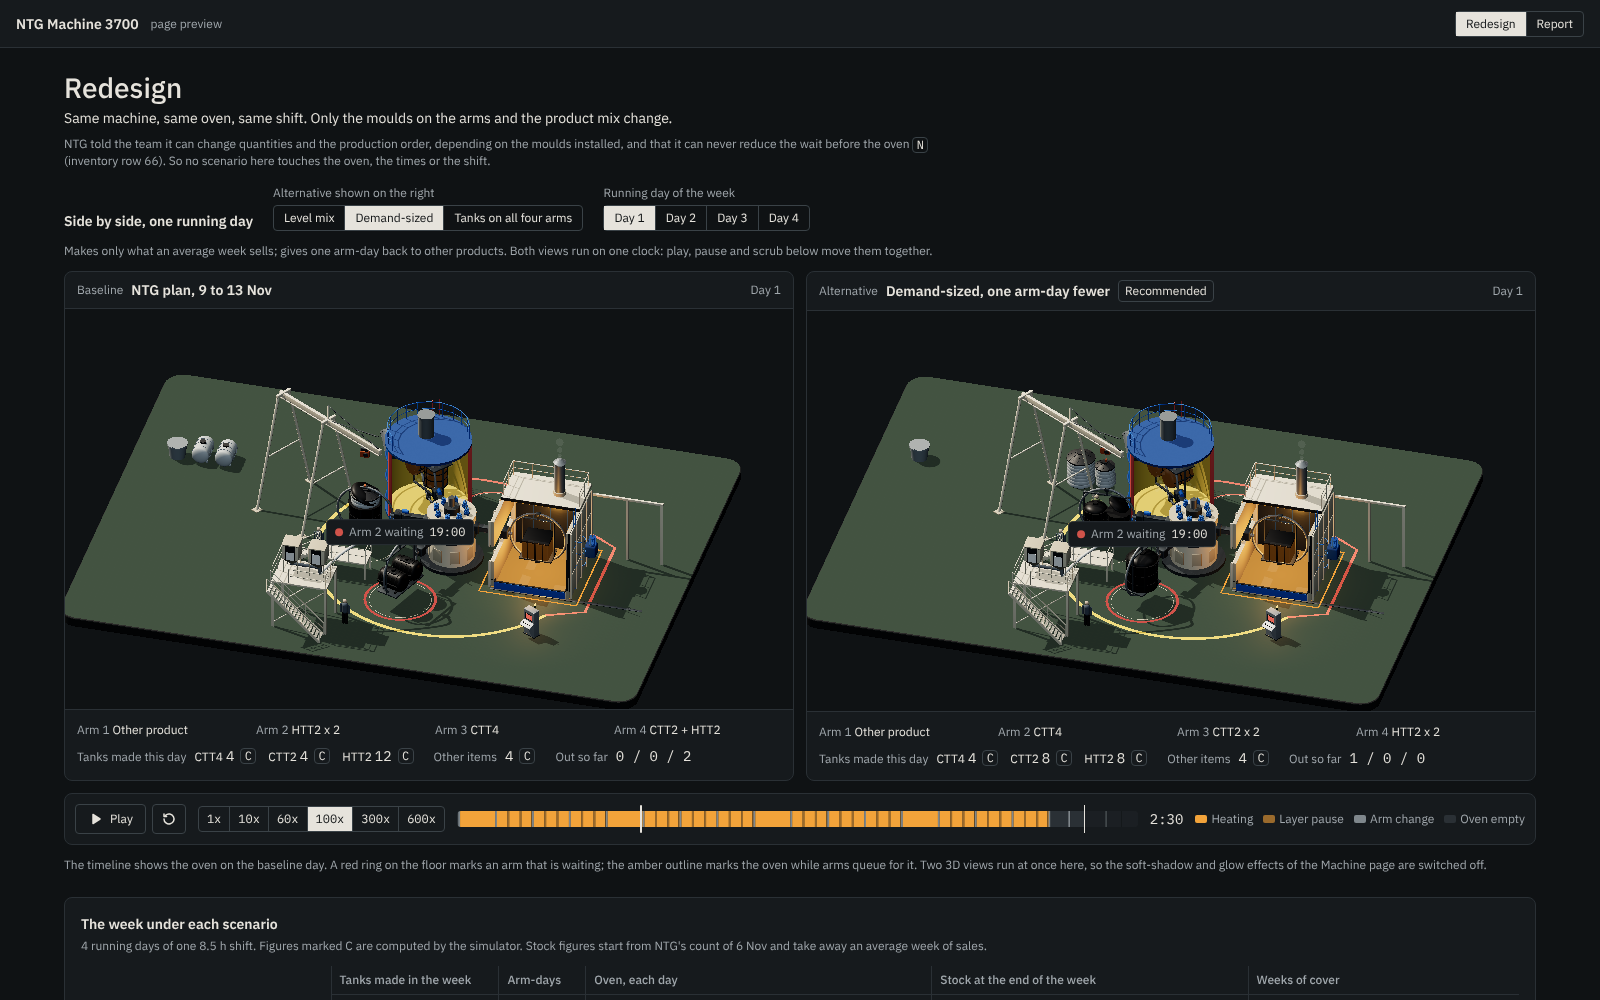
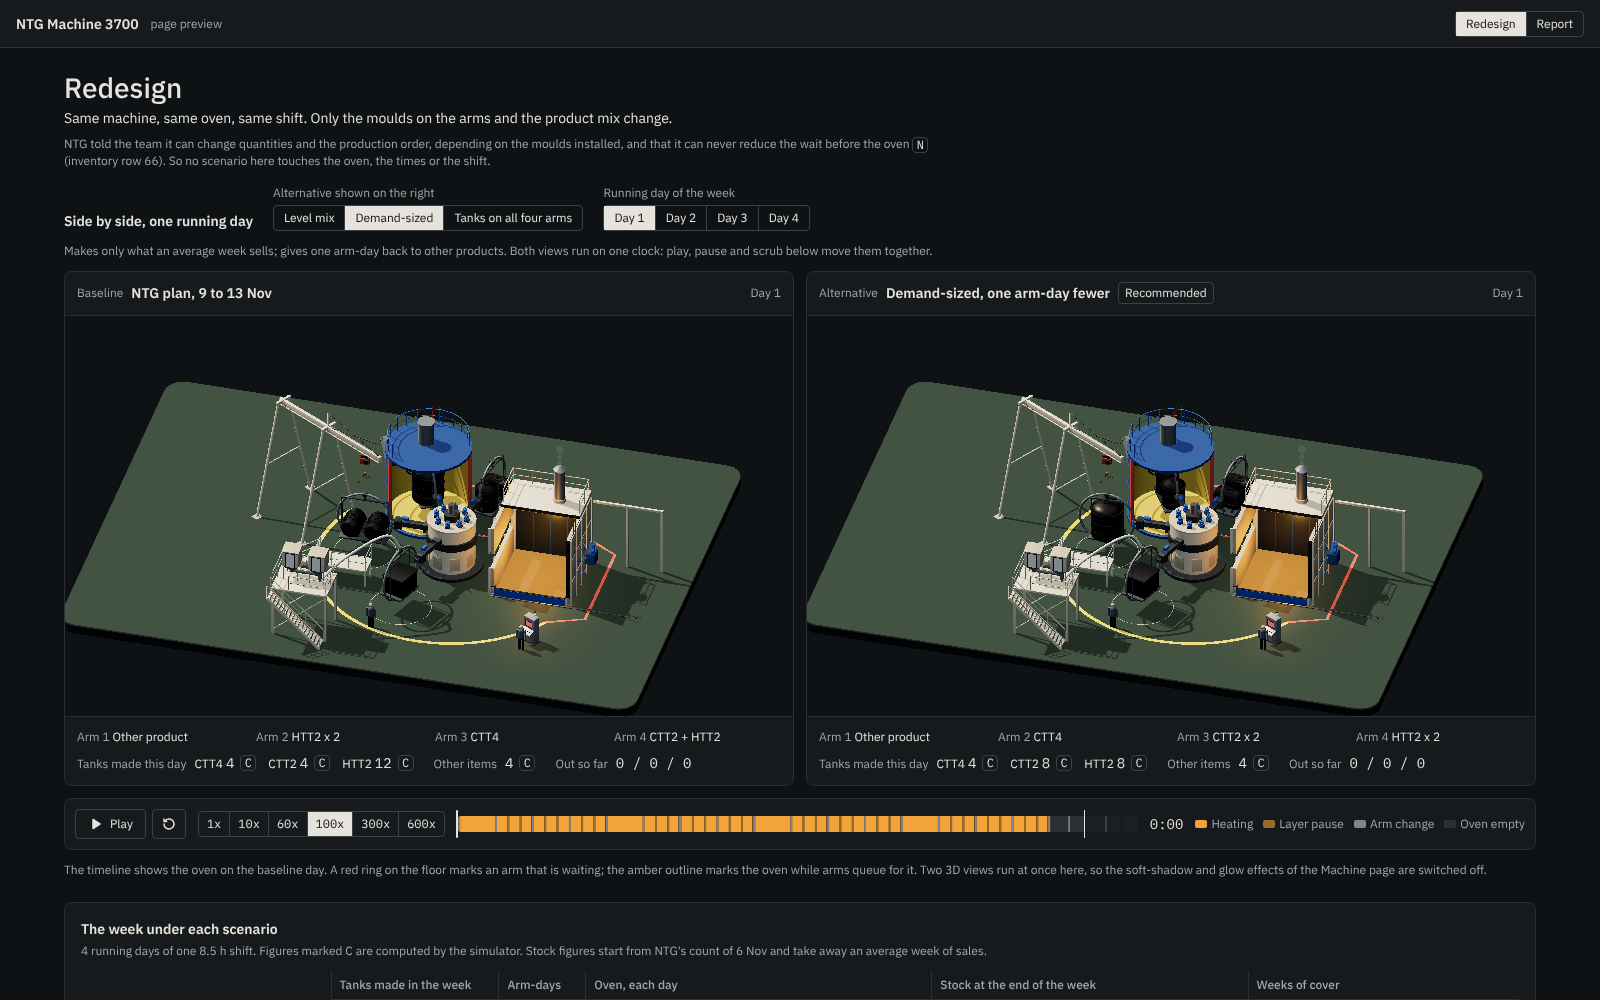
Raw-material hall mounted in the main scene with its powder panel and camera glide
Claude-Session: https://claude.ai/code/session_01TWvgP4uf49W2EAn66SNcxY

diff --git a/src/ui/RawPanel.tsx b/src/ui/RawPanel.tsx
@@ -1,0 +1,77 @@
+/** Left panel for the raw-material scene: silo and hopper levels, grinding and the forklift bin, from the simulator. */
+import { useTwin } from '../app/store';
+import { palette } from '../design/tokens';
+import { LAYERS, P, assumed } from '../data/params';
+import type { PlantState, SimResult } from '../sim/types';
+import { Button, Num, Panel, fmt, sourceTitle } from './kit';
+
+export function RawPanel({ state, result }: { state: PlantState; result: SimResult }) {
+  const setScene = useTwin((s) => s.setScene);
+  const cap = result.config.raw.siloCapacityKg;
+  const reorder = assumed.siloReorderFill.value;
+  const low = state.siloKg.some((kg) => kg / cap < reorder);
+  return (
+    <Panel aria-label="Raw material" className="pointer-events-auto w-full p-3 md:w-72">
+      <header className="mb-2 flex items-baseline justify-between">
+        <h2 className="text-14 font-semibold">Powder</h2>
+        <span className="text-12 text-textMuted">one silo per layer</span>
+      </header>
+      <ul className="grid gap-2.5">
+        {LAYERS.map((name, i) => {
+          const fill = state.siloKg[i]! / cap;
+          const isLow = fill < reorder;
+          return (
+            <li key={name} className="grid gap-1">
+              <div className="flex items-baseline justify-between gap-2">
+                <span className="text-14 font-medium">Silo {i + 1}</span>
+                <span className="truncate text-12 text-textMuted">{name}</span>
+              </div>
+              <div className="flex items-center justify-between gap-2 text-12">
+                <Num size="12" value={fmt(state.siloKg[i]!)} unit="kg" tag="C" title="Simulated stock: start level, less bins taken, plus powder ground" />
+                <span className="text-textMuted">
+                  of <Num size="12" value={fmt(cap)} unit="kg" datum={P.siloCapacityT} />
+                </span>
+              </div>
+              <div className="relative h-1.5 rounded-full bg-hairline" role="progressbar" aria-label={`Silo ${i + 1} level`} aria-valuemin={0} aria-valuemax={100} aria-valuenow={Math.round(fill * 100)}>
+                {/* The style bible asks for an amber gauge below the reorder level. */}
+                <div className="h-full rounded-full" style={{ width: `${Math.min(1, fill) * 100}%`, background: isLow ? palette.heatAmber : '#C3C9CD' }} />
+                <span className="absolute -top-0.5 h-2.5 w-px bg-textMuted" style={{ left: `${reorder * 100}%` }} title={sourceTitle(assumed.siloReorderFill)} aria-hidden="true" />
+              </div>
+              <div className="flex items-center justify-between text-12 text-textMuted">
+                <span>Hopper at the machine</span>
+                <Num size="12" value={fmt(state.hopperKg[i]!)} unit="kg" tag="C" title="Simulated hopper level" />
+              </div>
+            </li>
+          );
+        })}
+      </ul>
+      <dl className="mt-3 grid gap-1 border-t border-hairline pt-2 text-12">
+        <div className="flex items-center justify-between gap-2">
+          <dt className="text-textMuted">Grinding</dt>
+          <dd>{state.grind.active ? `${LAYERS[state.grind.layer]} batch, ${Math.round(state.grind.progress * 100)} %` : 'Idle'}</dd>
+        </div>
+        <div className="flex items-center justify-between gap-2">
+          <dt className="text-textMuted">Forklift bin</dt>
+          <dd>{state.bin.active ? `${fmt(state.bin.kg)} kg of ${LAYERS[state.bin.layer]!.toLowerCase()}` : 'Parked'}</dd>
+        </div>
+        <div className="flex items-center justify-between gap-2">
+          <dt className="text-textMuted">Dosed into moulds so far</dt>
+          <dd>
+            <Num size="12" value={fmt(state.loading.kgDosedTotal)} unit="kg" tag="C" title="Sum of the layer weights of every tank loaded so far" />
+          </dd>
+        </div>
+      </dl>
+      <p className="mt-2 border-t border-hairline pt-2 text-12 text-textMuted">
+        Raw material is not a bottleneck in NTG's data. The three tanks use about{' '}
+        <Num size="12" value={P.weeklyResinT.value} unit="t a week" datum={P.weeklyResinT} /> against roughly <Num size="12" value={P.siloCapacityT.value * 3} unit="t" datum={P.siloCapacityT} /> of silo
+        space. Start levels, the bin and the grinding rule are assumptions.
+      </p>
+      {low && (
+        <div className="mt-2 flex items-center justify-between gap-2 text-12">
+          <span>A silo is below its reorder level.</span>
+          <Button onClick={() => setScene('sourcing')}>Open sourcing</Button>
+        </div>
+      )}
+    </Panel>
+  );
+}

diff --git a/src/App.tsx b/src/App.tsx
@@ -6,10 +6,12 @@ import { PlantProvider } from './scene/plant';
 import { Stage, type View } from './scene/Stage';
 import { MachineScene } from './scene/MachineScene';
 import { HALL_OFFSET, PLAN_ROT } from './scene/layout';
+import { RawHall, HALL_SPAN, HALL_VIEW_CENTER } from './scene/raw/RawHall';
 import { stationPoint } from './scene/machine/Cues';
 import { ArmsPanel, BottomBar, Breadcrumb, KpiPanel, PanelSlot, TopBar, useUiState } from './ui/Chrome';
 import { ConfigDrawer } from './ui/Drawer';
 import { StationCard } from './ui/StationCard';
+import { RawPanel } from './ui/RawPanel';
 
 // Pages load on demand so the 3D scene does not wait for them.
 const PlanPage = lazy(() => import('./pages/plan/PlanPage').then((m) => ({ default: m.PlanPage })));
@@ -55,7 +57,7 @@ function useIsWide() {
 
 export function App() {
   useClock();
-  const { result, scene, selected, panelsOpen, select, reduced, simpleLight } = useTwin();
+  const { result, scene, selected, panelsOpen, select, reduced, simpleLight, setScene } = useTwin();
   const state = useUiState();
   const wide = useIsWide();
   const is3d = scene === 'machine' || scene === 'raw';
@@ -67,7 +69,8 @@ export function App() {
   const view = useMemo<View>(() => {
     // Keep the subject clear of the panels: [left, right, top, bottom] in pixels.
     const pad: [number, number, number, number] = wide ? (panelsOpen ? [170, 170, 52, 72] : [16, 16, 52, 72]) : panelsOpen ? [4, 4, 44, 330] : [4, 4, 44, 120];
-    if (scene === 'raw') return { target: toWorld([HALL_OFFSET[0], 2, HALL_OFFSET[2]]), span: [26, 16], pad };
+    if (scene === 'raw')
+      return { target: toWorld([HALL_OFFSET[0] + HALL_VIEW_CENTER[0], HALL_VIEW_CENTER[1], HALL_OFFSET[2] + HALL_VIEW_CENTER[2]]), span: HALL_SPAN, pad };
     if (selected) return { target: toWorld(stationPoint(selected)), span: [15, 10.5], pad };
     return { target: toWorld(MACHINE_TARGET), span: wide ? [33, 20.5] : [30, 19], pad };
   }, [scene, selected, panelsOpen, wide]);
@@ -81,14 +84,19 @@ export function App() {
             via={sceneChanged ? OVERVIEW : undefined}
             durationMs={sceneChanged ? M.sceneTransition : M.cameraPreset}
             reduced={reduced}
-            shadowSpan={30}
-            shadowCenter={toWorld([-8, 0, 2])}
+            shadowSpan={38}
+            shadowCenter={toWorld([-14, 0, 4])}
             effects={!simpleLight && q.get('fx') !== '0'}
             onMiss={() => select(null)}
             label={scene === 'raw' ? 'Raw-material hall, isometric view' : 'Machine 3700, isometric view'}
           >
             <PlantProvider result={result}>
               <MachineScene />
+              <group rotation={[0, PLAN_ROT, 0]}>
+                <group position={HALL_OFFSET}>
+                  <RawHall onSelect={() => setScene('raw')} />
+                </group>
+              </group>
             </PlantProvider>
           </Stage>
         </div>
@@ -103,7 +111,7 @@ export function App() {
               <div className="flex flex-col gap-3">
                 <Breadcrumb />
                 <PanelSlot show={panelsOpen} from="left">
-                  <ArmsPanel state={state} result={result} />
+                  {scene === 'raw' ? <RawPanel state={state} result={result} /> : <ArmsPanel state={state} result={result} />}
                 </PanelSlot>
               </div>
               <PanelSlot show={panelsOpen} from="right">
@@ -119,8 +127,9 @@ export function App() {
               {panelsOpen && (
                 <div className="pointer-events-auto mt-auto flex max-h-[38vh] flex-col gap-2 overflow-y-auto">
                   <StationCard state={state} result={result} />
+                  {scene === 'raw' && <RawPanel state={state} result={result} />}
                   <KpiPanel state={state} result={result} />
-                  <ArmsPanel state={state} result={result} />
+                  {scene !== 'raw' && <ArmsPanel state={state} result={result} />}
                 </div>
               )}
             </div>

diff --git a/src/pages/report/ReportPage.tsx b/src/pages/report/ReportPage.tsx
@@ -5,7 +5,7 @@
  * Every figure is computed in ./validation.ts or read from the inventory.
  * Gaps are shown as gaps. The page prints black on white (see PRINT_CSS).
  */
-import { useCallback, useMemo, useState, type ReactNode } from 'react';
+import { useCallback, useEffect, useMemo, useState, type ReactNode } from 'react';
 import { SPEEDS } from '../../app/store';
 import { P, SKUS, inventoryRows, type Tag } from '../../data/params';
 import { neutral } from '../../design/tokens';
@@ -30,7 +30,8 @@ const PAGE_CSS = `
 .rp-ink-muted { fill: ${neutral.textMuted}; }
 .rp-axis { stroke: ${neutral.hairlineStrong}; stroke-width: 1; }
 @media print {
-  @page { size: A4; margin: 12mm; }
+  /* Landscape: the page is then wide enough for the tables to print as tables, not as stacked blocks. */
+  @page { size: A4 landscape; margin: 10mm; }
   html, body, #root { height: auto !important; overflow: visible !important; background: #fff !important; }
   *:has(.rp-root) { position: static !important; overflow: visible !important; height: auto !important; max-height: none !important; inset: auto !important; background: #fff !important; }
   body *:not(:has(.rp-root)):not(.rp-root):not(.rp-root *) { display: none !important; }
@@ -38,7 +39,8 @@ const PAGE_CSS = `
   .rp-root, .rp-root * { color: #000 !important; background: transparent !important; border-color: #888 !important; }
   .rp-root .rp-noprint, .rp-root .rp-controls { display: none !important; }
   .rp-root .rp-scroll { max-height: none !important; overflow: visible !important; }
-  .rp-root thead { position: static !important; }
+  .rp-root .rp-scroll thead { position: static !important; }
+  .rp-root tr { break-inside: avoid; }
   .rp-root .rp-row, .rp-root .rp-figure, .rp-root .rp-conflict { break-inside: avoid; }
   .rp-root h3, .rp-root h4, .rp-root h5 { break-after: avoid; }
   .rp-root .rp-link { text-decoration: none !important; }
@@ -586,6 +588,25 @@ export function ReportPage() {
   const [focus, setFocus] = useState<{ row: number; n: number } | null>(null);
   const jump = useCallback((row: number) => setFocus((f) => ({ row, n: (f?.n ?? 0) + 1 })), []);
   const count = (x: Verdict) => v.rows.filter((r) => r.verdict === x).length;
+
+  // Printing: open the folded source list so it is on paper, and fold it again afterwards.
+  useEffect(() => {
+    let opened: HTMLDetailsElement[] = [];
+    const before = () => {
+      opened = [...document.querySelectorAll<HTMLDetailsElement>('.rp-root details.rp-print-open:not([open])')];
+      for (const d of opened) d.open = true;
+    };
+    const after = () => {
+      for (const d of opened) d.open = false;
+      opened = [];
+    };
+    window.addEventListener('beforeprint', before);
+    window.addEventListener('afterprint', after);
+    return () => {
+      window.removeEventListener('beforeprint', before);
+      window.removeEventListener('afterprint', after);
+    };
+  }, []);
   const tags = (['N', 'V', 'C', 'S'] as Tag[]).map((t) => `${rows.filter((r) => r.tag === t).length} ${t}`).join(', ');
 
   return (

diff --git a/src/scene/raw/preview.tsx b/src/scene/raw/preview.tsx
@@ -48,13 +48,21 @@ function Hall() {
   const ref = useRef<THREE.Group>(null);
   useEffect(() => {
     let tris = 0;
+    const byPart: Record<string, number> = {};
+    const hall = ref.current?.children[0];
     ref.current?.traverse((o) => {
       const m = o as THREE.Mesh;
       if (!m.isMesh) return;
       const g = m.geometry;
-      const n = (g.index ? g.index.count : (g.attributes.position?.count ?? 0)) / 3;
-      tris += n * ((o as THREE.InstancedMesh).isInstancedMesh ? (o as THREE.InstancedMesh).instanceMatrix.count : 1);
+      const n = ((g.index ? g.index.count : (g.attributes.position?.count ?? 0)) / 3) * ((o as THREE.InstancedMesh).isInstancedMesh ? (o as THREE.InstancedMesh).instanceMatrix.count : 1);
+      tris += n;
+      // Which top-level part of the hall this mesh belongs to, and what kind of geometry it is.
+      let top: THREE.Object3D = o;
+      while (top.parent && top.parent !== hall) top = top.parent;
+      const key = `${hall?.children.indexOf(top)}:${g.type}`;
+      byPart[key] = (byPart[key] ?? 0) + n;
     });
+    (window as unknown as { __parts: Record<string, number> }).__parts = byPart;
     (window as unknown as { __tris: number }).__tris = Math.round(tris);
     document.title = `Raw hall preview: ${Math.round(tris)} triangles`;
   }, []);

diff --git a/src/pages/report/parts.tsx b/src/pages/report/parts.tsx
@@ -218,7 +218,7 @@ export function DailyOutputChart({ check }: { check: ErpCheck }) {
           <SourceBadge tag="C" title="Counted from the ERP daily production (tag N) against simulator runs" />
         </span>
       </p>
-      <details className="mt-1 text-12 text-textMuted">
+      <details className="rp-noprint mt-1 text-12 text-textMuted">
         <summary className="cursor-pointer rounded-control">Same data as a table</summary>
         <table className="mt-1 border-collapse">
           <caption className="sr-only">{sku}: ERP production days by daily quantity</caption>

diff --git a/src/pages/report/InventoryTable.tsx b/src/pages/report/InventoryTable.tsx
@@ -165,7 +165,7 @@ export function InventoryTable({ focus }: { focus: { row: number; n: number } | 
         </table>
       </div>
 
-      <details className="mt-3 text-12 text-textMuted">
+      <details className="rp-print-open mt-3 text-12 text-textMuted">
         <summary className="cursor-pointer rounded-control text-text">Research sources cited in the inventory (R1 to R{inventorySources.length})</summary>
         <ul className="mt-2 grid gap-1">
           {inventorySources.map((s) => (
